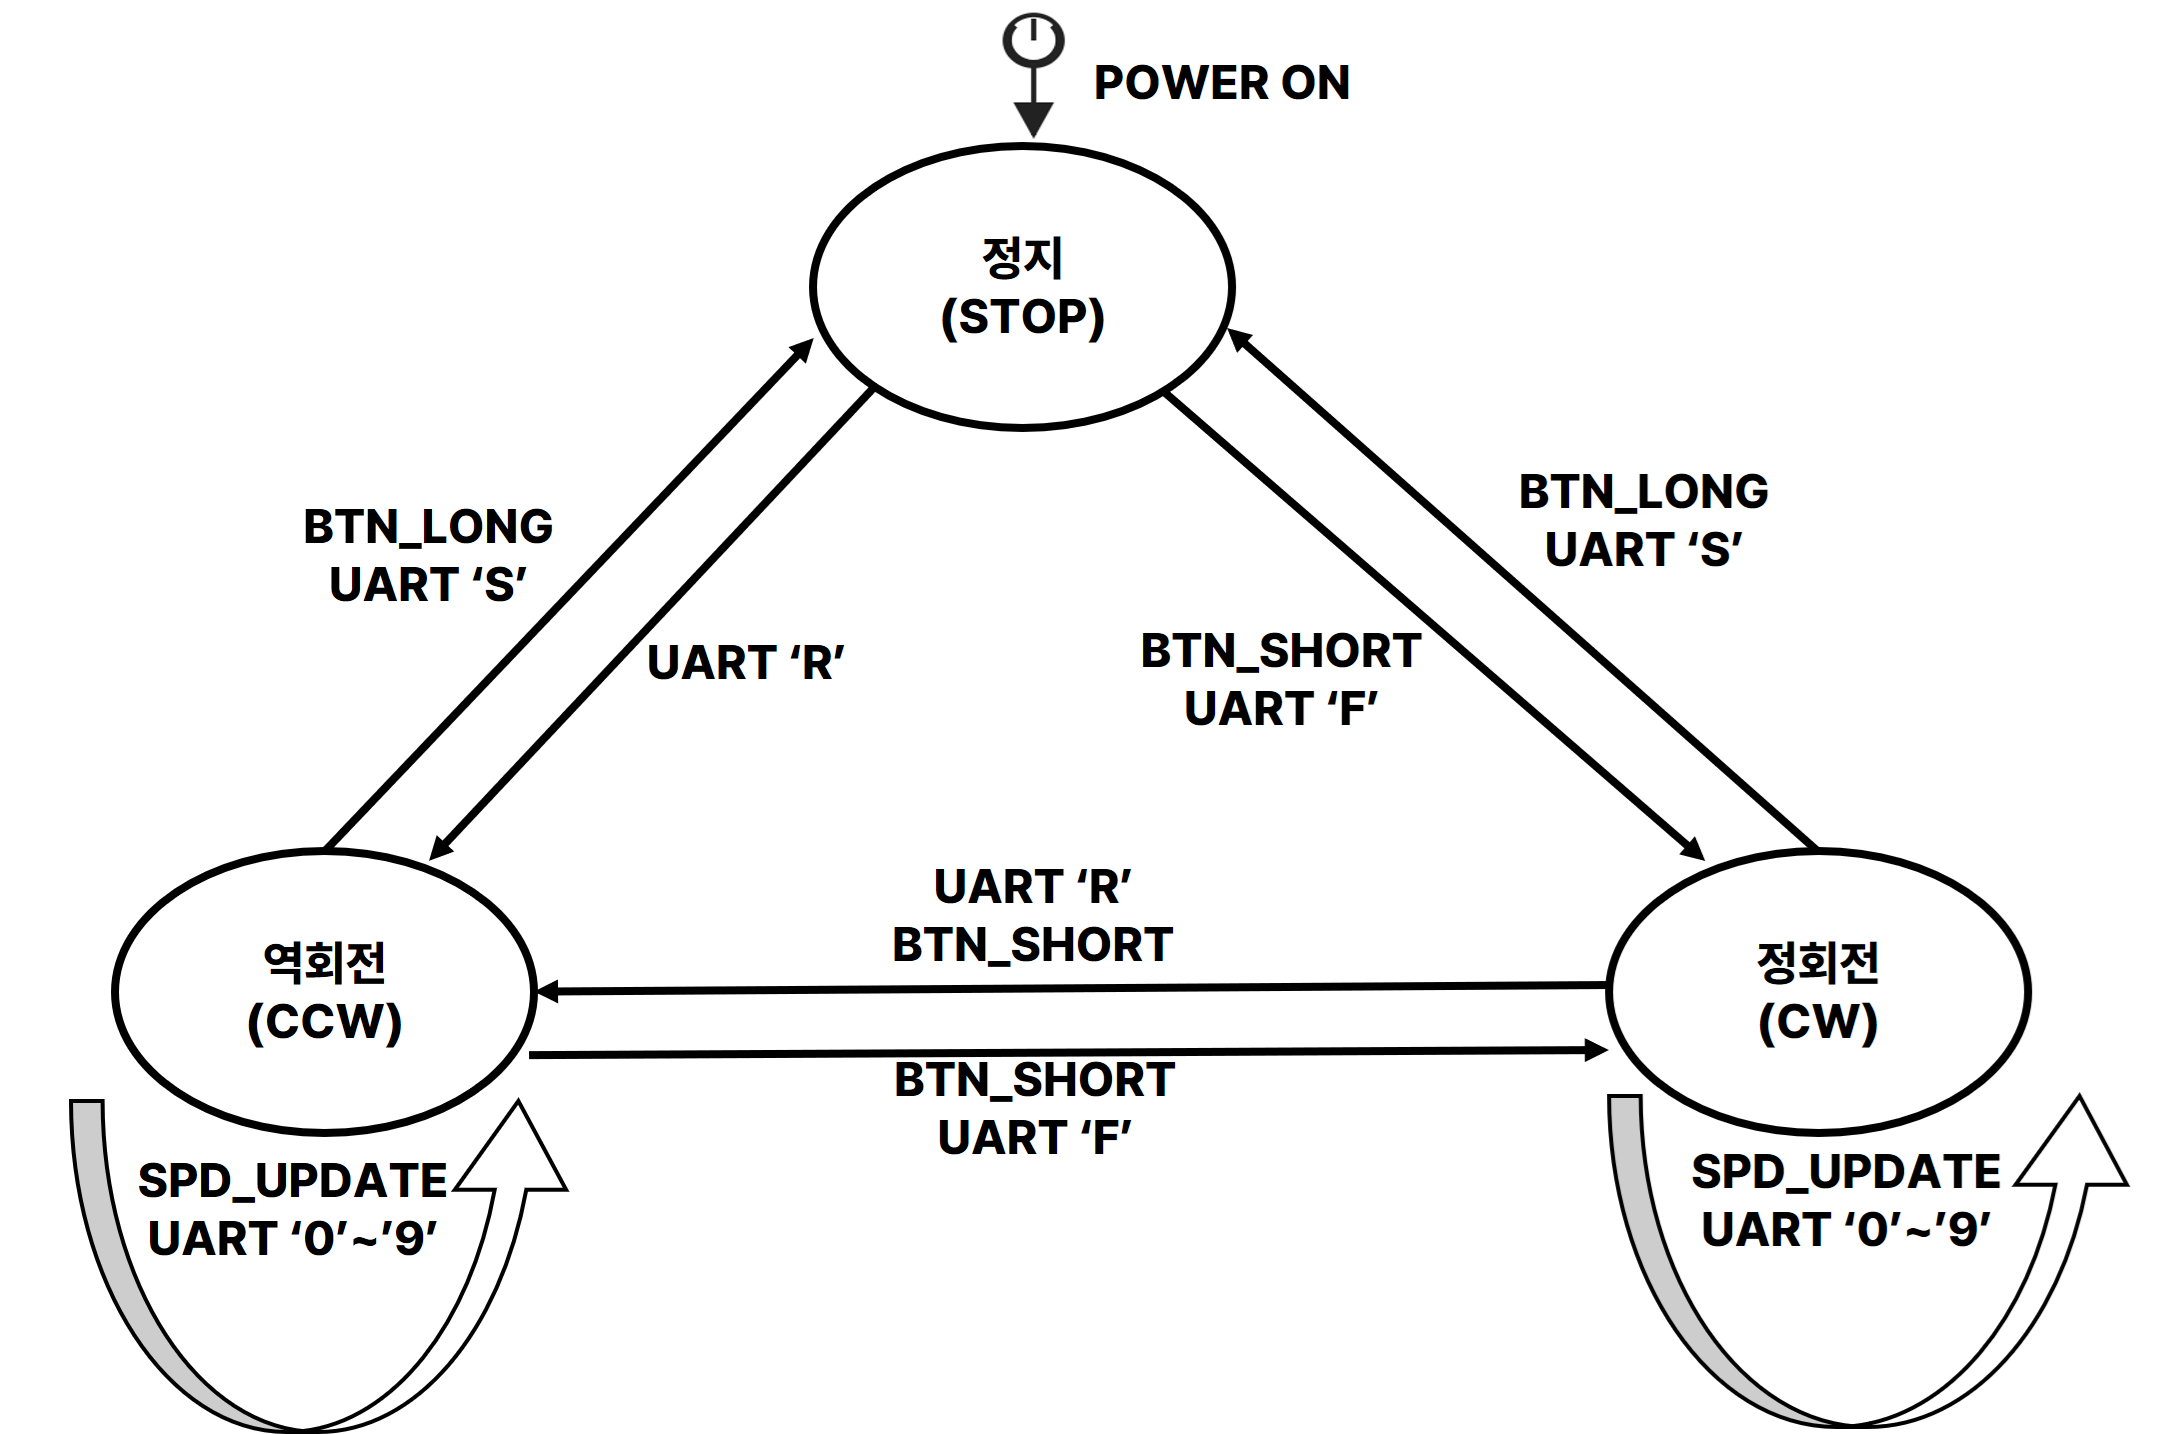
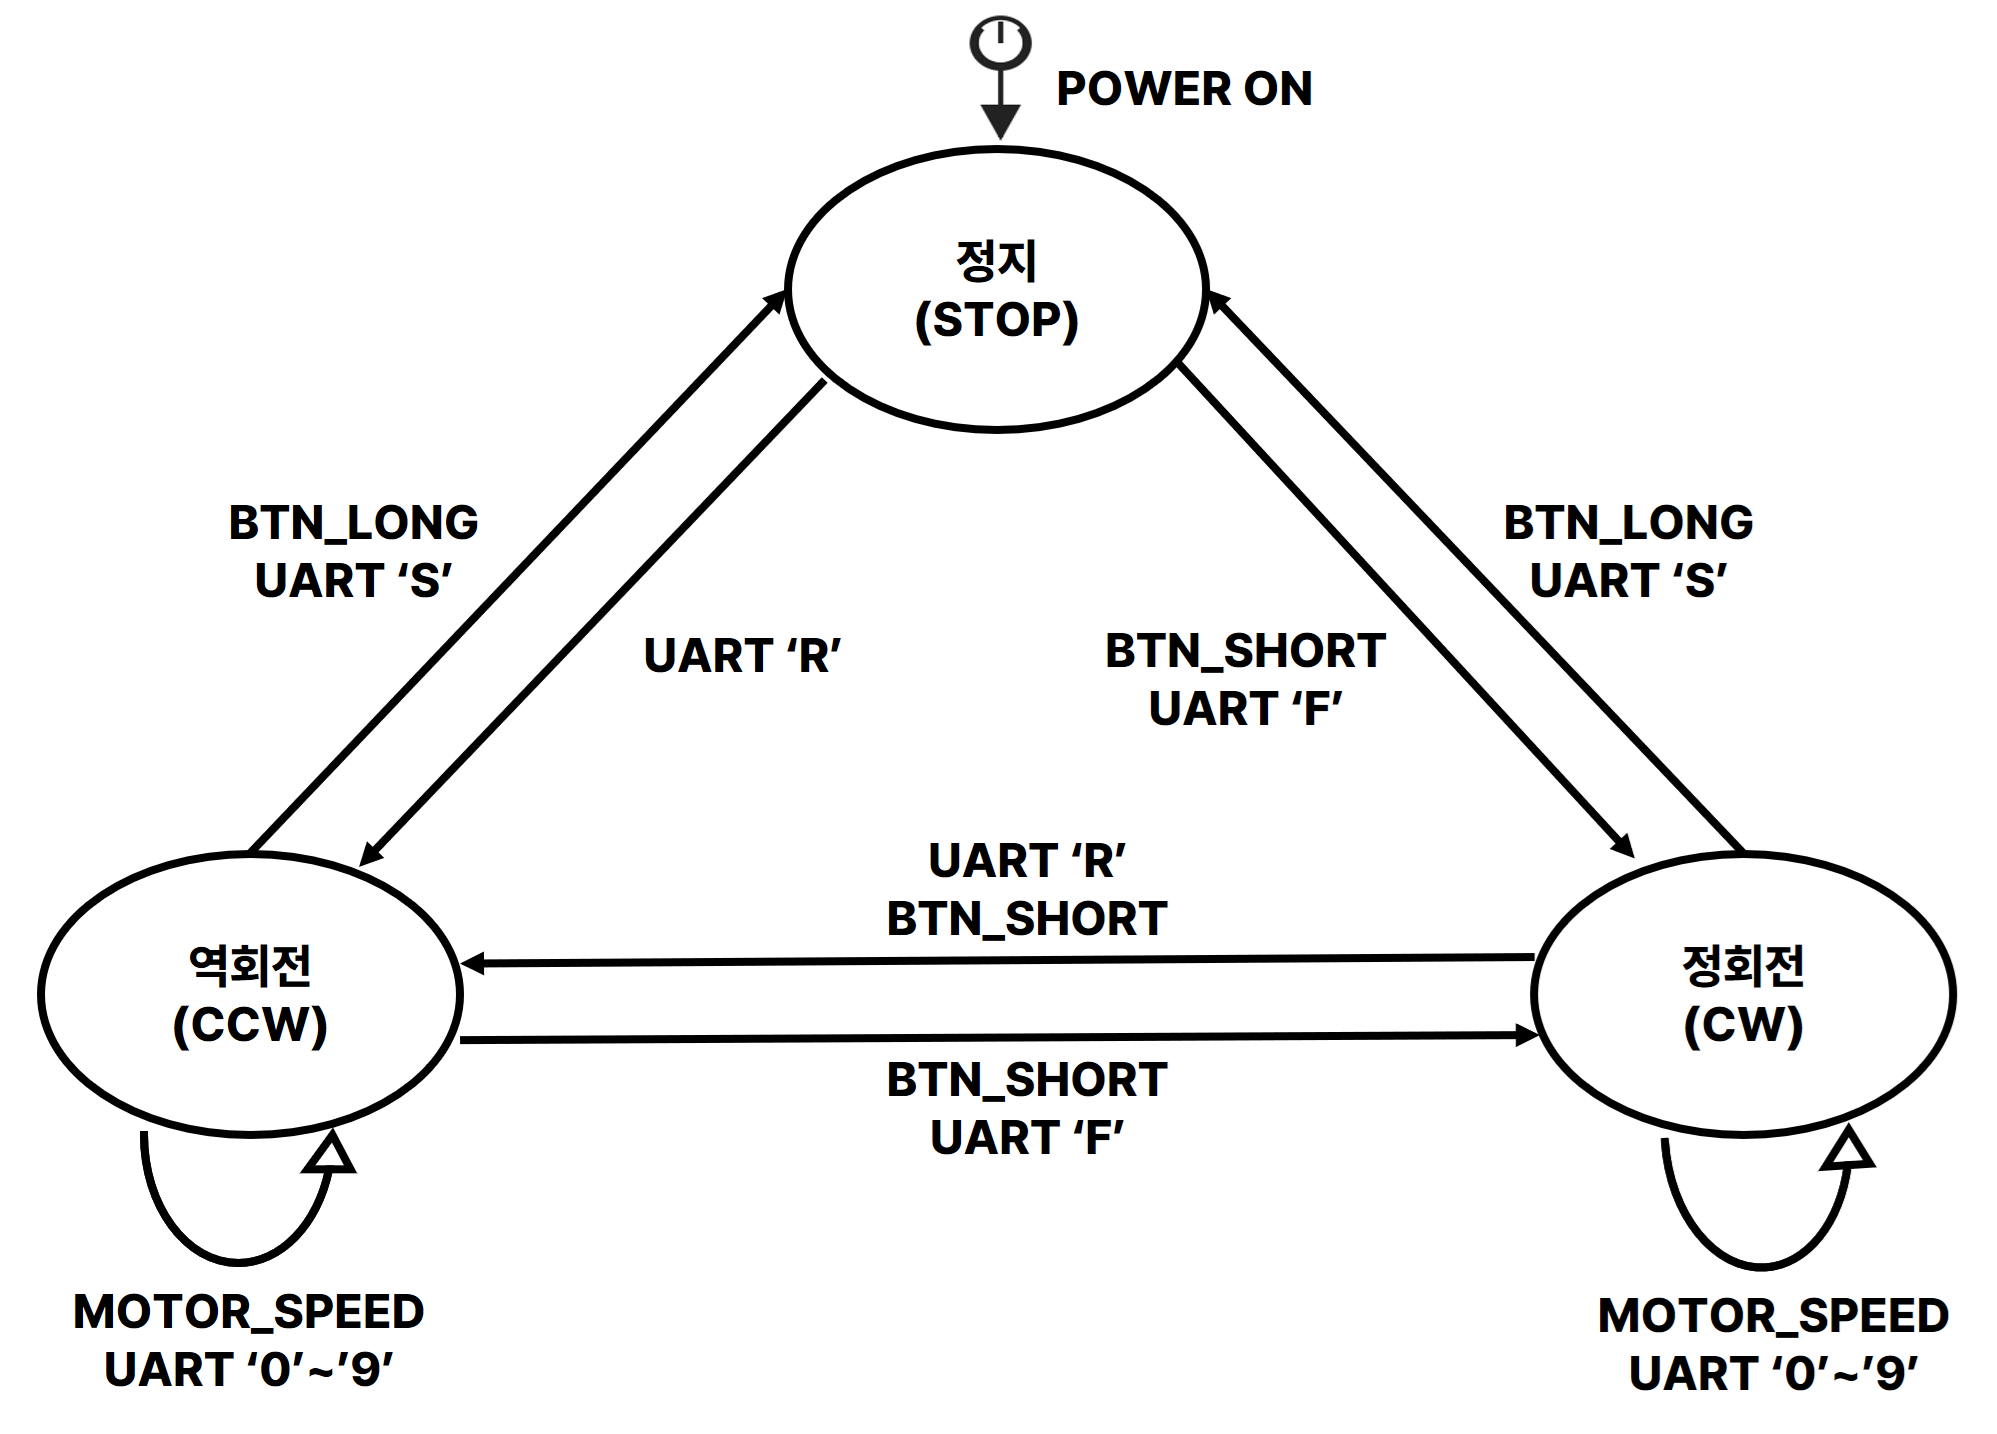
hi

diff --git a/Group3_motor.md b/Group3_motor.md
@@ -53,6 +53,7 @@ flowchart LR
 
 ## 2. EVENT (BUTTON/UART)
 
+### 2-1. BUTTON/UART 이벤트
 | 이름 | 값 | 설명 |
 |---|:---:|---|
 | `EVT_NONE` | 0 | 이벤트 없음 / 이벤트 소비 완료 |
@@ -60,7 +61,73 @@ flowchart LR
 | `EVT_BTN_LONG` | 2 | 버튼 길게 눌림 (버튼이 눌린 채로 경과 시간 >= 3000ms) |
 | `EVT_UART` | 3 | UART로 문자 수신 (수신 문자는 ISR에서 Uart_Data_In에 저장) |
 
-## 3. GLOBAL VARIABLE
+### 2-2. 상태별 이벤트 처리표
+
+| 현재 상태 | 입력 이벤트/명령 | 다음 상태 | 수행 함수 | 전환 전 정지 지연 |
+|---|---|---|---|:---:|
+| `MOTOR_STOP` | 버튼 짧게 누름 | `MOTOR_CW` | `motor_cw()` | 없음 |
+| `MOTOR_STOP` | 버튼 길게 누름 | `MOTOR_STOP` | 없음 | 없음 |
+| `MOTOR_CW` | 버튼 짧게 누름 | `MOTOR_CCW` | `motor_stop_delay()` → `motor_ccw()` | 적용 |
+| `MOTOR_CW` | 버튼 길게 누름 | `MOTOR_STOP` | `motor_stop()` | 없음 |
+| `MOTOR_CCW` | 버튼 짧게 누름 | `MOTOR_CW` | `motor_stop_delay()` → `motor_cw()` | 적용 |
+| `MOTOR_CCW` | 버튼 길게 누름 | `MOTOR_STOP` | `motor_stop()` | 없음 |
+| 모든 상태 | UART `'f'` | `MOTOR_CW` | `motor_cw()` | 미적용 |
+| 모든 상태 | UART `'s'` | `MOTOR_STOP` | `motor_stop()` | 없음 |
+| 모든 상태 | UART `'r'` | `MOTOR_CCW` | `motor_ccw()` | 미적용 |
+| 모든 상태 | UART `'0'`~`'9'` | 현재 상태 유지 | `TIM5_Out_PWM_Generation()` | 해당 없음 |
+
+## 3. PWM 및 타이머
+
+### 3-1. TIM5 모터 PWM
+
+| 항목 | 설정값 |
+|---|---|
+| TIM5 기준 주파수 | 8 MHz |
+| PWM 주파수 | 10 kHz |
+| 출력 채널 | CH1, CH2 |
+| 카운터 모드 | Down counter |
+| 반복 모드 | Repeat |
+| 초기 Duty | 75% (`range = 5`) |
+| Duty 범위 | 50~95% |
+
+### 3-2. TIM4 버튼 3초 인지 타이머
+
+| 항목 | 설정값 |
+|---|---|
+| TIM4 Tick | 1000 μs |
+| TIM4 기준 주파수 | 1 kHz |
+| 길게 누름 설정값 | 3000 ms |
+| 인터럽트 | Update interrupt, IRQ 30 |
+
+## 4. VARIABLE
+
+### 4-1. 열거형 및 구조체
+
+```c
+typedef enum
+{
+    MOTOR_STOP,
+    MOTOR_CW,
+    MOTOR_CCW
+} MOTOR_STATE;
+
+typedef enum
+{
+    BTN_NONE,
+    BTN_SHORT_PRESSED,
+    BTN_LONG_PRESSED,
+    BTN_UART
+} BUTTON_EVENT;
+
+typedef struct Button
+{
+    BUTTON_EVENT event;
+    int pressed;
+    int long_pressed;
+} BUTTON;
+```
+
+### 4-2. GLOBAL VARIABLE
 
 | 이름 | Type | 초기값 | 역할 | 변경 시점 |
 |---|---|---|---|---|
@@ -74,9 +141,9 @@ flowchart LR
 | `uart_data` | volatile uint8_t | `0` | UART로 수신된 문자 | `USART2_IRQHandler()`에서 수신 시 갱신 |
 | `ms_count` | volatile uint32_t | `0` | 1ms 카운트 타이머 | `TIM4_IRQHandler()`에서 갱신 |
 
-## 4. METHOD
+## 5. METHOD
 
-### 4-1. 주요 METHOD
+### 5-1. 주요 METHOD
 
 | 이름 | 입력 | 출력 | 설명 | 호출 시점 |
 |---|---|---|---|---|
@@ -84,7 +151,7 @@ flowchart LR
 | `update_motor_state()` | `evt`, `motor_state`, `motor_speed` (전역 참조) | `new_motor_state`, `new_motor_speed` 갱신 | `evt`가 `EVT_BTN_SHORT`면 CW/CCW를 토글, `EVT_BTN_LONG`이면 `MOTOR_STOP`으로 전환. `EVT_UART`면 `uart_data`가 숫자인지 'f', 'r', 's'인지에 따라 `new_motor_speed` 또는 `new_motor_state`를 갱신. | main 루프, `evt != EVT_NONE`일 때만 호출 |
 | `drive_motor()` | `new_motor_state`, `new_motor_speed` (전역 참조) | GPIO 방향 설정, PWM Duty 반영, `motor_state`, `motor_speed` 갱신 | `new_motor_state`와 `motor_state`, `new_motor_speed`와 `motor_speed`를 비교하여 다를 때만 GPIO 방향을 설정하고 PWM Duty를 반영 | main 루프 |
 
-### 4-2. ISR 
+### 5-2. ISR 
 
 | 이름 | 출력 | 설명 | 호출 시점 |
 |---|---|---|---|
